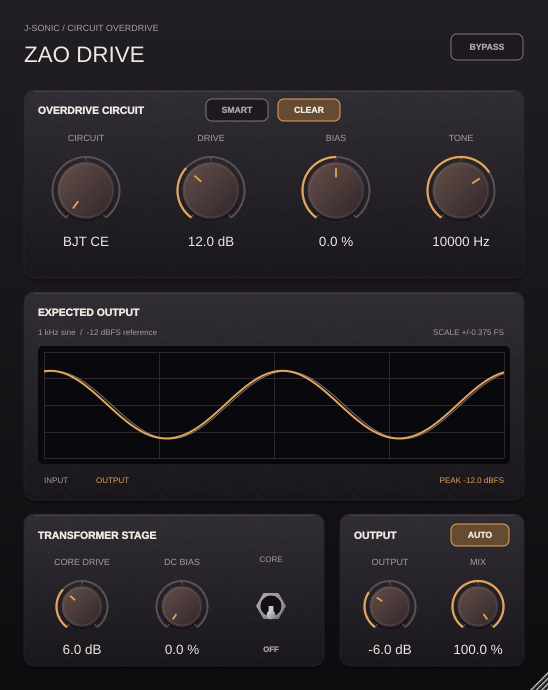
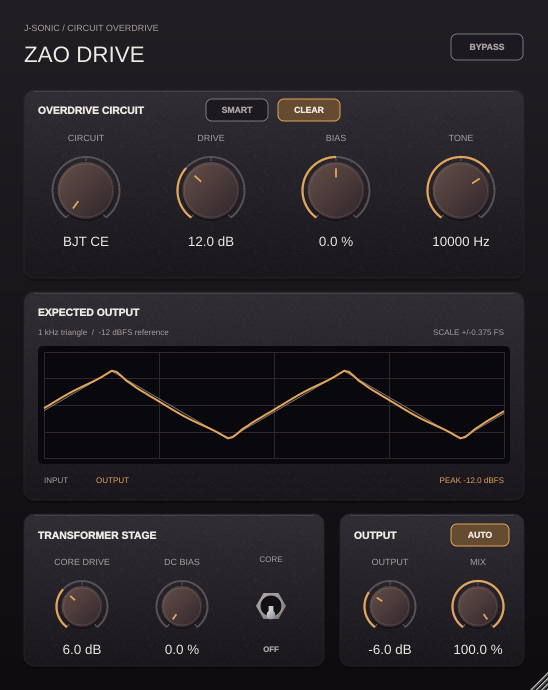
Use triangle reference for Zao Drive preview and Auto

diff --git a/projects/ZaoDrive/Tests/ProcessorTests.cpp b/projects/ZaoDrive/Tests/ProcessorTests.cpp
@@ -138,20 +138,33 @@ void optimizationTests()
         check (ready && rendered.peak > 0, "preview worker publishes the latest requested waveform");
         zao::DriveEngine reference; reference.prepare (48000, 128, false);
         juce::AudioBuffer<float> block (2, 128);
-        double error = 0;
+        // Independently construct the two straight ramps, including delayed
+        // negative indices, so a sine or misaligned dry trace cannot pass.
+        const auto triangle = [] (int sample)
+        {
+            const auto phase = (sample % 48 + 48) % 48;
+            return phase < 24 ? -.25f+phase/48.f : .75f-phase/48.f;
+        };
+        double error = 0, inputError = 0;
         for (int offset = 0; offset < 4192; offset += 128)
         {
             const auto n = std::min (128, 4192-offset);
             block.setSize (2, n, false, false, true);
             for (int i = 0; i < n; ++i)
                 for (int ch = 0; ch < 2; ++ch)
-                    block.setSample (ch, i, .25f*std::sin (static_cast<float> (2*zao::pi*(offset+i)/48.0)));
+                    block.setSample (ch, i, triangle (offset+i));
             reference.process (block, settings);
             for (int i = 0; i < n; ++i)
                 if (offset+i >= 4096)
+                {
                     error = std::max (error, std::abs (static_cast<double> (block.getSample (0, i)
                         -rendered.output[static_cast<size_t> (offset+i-4096)])));
+                    inputError = std::max (inputError, std::abs (static_cast<double> (
+                        triangle (offset+i-reference.getLatency())
+                        -rendered.input[static_cast<size_t> (offset+i-4096)])));
+                }
         }
+        check (inputError < 1e-7, "preview dry trace is a latency-aligned 1 kHz triangle at quarter-scale peak");
         check (error < 1e-6, "reused preview matches a fresh audio engine after reset and request replacement");
     }
 }
@@ -1130,7 +1143,9 @@ void editorTests (const juce::File& destination, bool tooltip, int previewMode, 
     for (int i = 0; i < 24; ++i) { juce::Thread::sleep (20); juce::Timer::callPendingTimersSynchronously(); }
     double previewPower = 0;
     for (auto value : zaoEditor->getExpectedOutput()) previewPower += static_cast<double> (value)*value;
-    check (std::abs (std::sqrt (previewPower/96)-.25/std::sqrt (2.0)) < 1e-4,
+    // Exact RMS of a sampled triangle with 24 samples per ramp, including vertices.
+    const auto triangleRms = .25*std::sqrt ((1.0+2.0/(24*24))/3.0);
+    check (std::abs (std::sqrt (previewPower/96)-triangleRms) < 1e-4,
            "Auto preview shows the level-matched steady reference without extra circuit warmup");
     set (processor, "autoCompensate", 0);
     check (! automatic->getToggleState(), "Auto button follows host automation");

diff --git a/projects/ZaoDrive/Source/PreviewRenderer.cpp b/projects/ZaoDrive/Source/PreviewRenderer.cpp
@@ -2,6 +2,16 @@
 
 namespace zao
 {
+namespace
+{
+// Two 48-sample cycles fill the preview at 48 kHz; use the same triangle
+// for the circuit input and its latency-aligned dry reference used by Auto.
+float referenceSample (int sample) noexcept
+{
+    const auto phase = (sample % 48 + 48) % 48;
+    return .25f*(1.f-std::abs (phase-24)/12.f);
+}
+}
 PreviewRenderer::PreviewRenderer (bool startImmediately) : Thread ("Zao waveform preview")
 {
     if (startImmediately) startThread (juce::Thread::Priority::low);
@@ -43,7 +53,7 @@ void PreviewRenderer::run()
     constexpr int warmup = 4096, total = warmup+96;
     std::array<float, total> source;
     for (int i = 0; i < total; ++i)
-        source[static_cast<size_t> (i)] = .25f*std::sin (static_cast<float> (2*pi*i/48.0));
+        source[static_cast<size_t> (i)] = referenceSample (i);
     juce::AudioBuffer<float> block (2, 128);
     std::array<float, 15> previousKey {};
     uint32_t previousAnalysis = 0;
@@ -101,7 +111,7 @@ void PreviewRenderer::run()
                 if (offset+i >= warmup)
                 {
                     const auto at = static_cast<size_t> (offset+i-warmup);
-                    frame.input[at] = .25f*std::sin (static_cast<float> (2*pi*(offset+i-engine.getLatency())/48.0));
+                    frame.input[at] = referenceSample (offset+i-engine.getLatency());
                     frame.output[at] = block.getSample (0, i);
                     frame.peak = std::max (frame.peak, std::abs (frame.output[at]));
                 }

diff --git a/projects/ZaoDrive/Source/PluginEditor.cpp b/projects/ZaoDrive/Source/PluginEditor.cpp
@@ -285,7 +285,7 @@ void ZaoDriveEditor::paintExpectedOutput (juce::Graphics& g)
     g.setColour (foreground); g.setFont (juce::FontOptions (12.0f).withStyle ("bold"));
     g.drawText ("EXPECTED OUTPUT", 38, 303, 240, 18, juce::Justification::centredLeft);
     g.setColour (secondary); g.setFont (juce::FontOptions (9.0f));
-    g.drawText (processor.getSettings().smart ? "1 kHz reference / Smart follows live input" : "1 kHz sine  /  -12 dBFS reference", 38, 324, 280, 16, juce::Justification::centredLeft);
+    g.drawText (processor.getSettings().smart ? "1 kHz triangle / Smart follows live input" : "1 kHz triangle  /  -12 dBFS reference", 38, 324, 280, 16, juce::Justification::centredLeft);
     const auto& preview = previewAnimation.current();
     const auto scale = preview.scale;
     g.drawText ("SCALE +/-" + juce::String (scale, 3) + " FS", 350, 324, 154, 16, juce::Justification::centredRight);

diff --git a/projects/ZaoDrive/Tests/Reports/auto-report.md b/projects/ZaoDrive/Tests/Reports/auto-report.md
@@ -4,14 +4,15 @@
 
 Auto uses a **fixed correction from the rendered preview waveform's RMS**.
 There is no live-input RMS detector, moving average, attack/release envelope or
-signal-dependent gain tracking. It matches the 1 kHz preview reference; live
+signal-dependent gain tracking. It matches the 1 kHz triangle preview reference; live
 music keeps its dynamics and receives the same fixed gain between reference
 updates. The audio path and display use one shared reference calculation.
 
 ## Calculation and signal path
 
-The worker renders the same −12 dBFS, 1 kHz reference and existing 4,096-sample
-warmup as the display. It measures the 96-sample, two-cycle input and processed
+The worker renders the same −12 dBFS, 1 kHz triangle reference and existing 4,096-sample
+warmup as the display. The triangle retains the previous ±0.25 FS peak
+and 48-sample period at 48 kHz, with two cycles in the snapshot. It measures the 96-sample, two-cycle input and processed
 output snapshot after Clear, the circuit, Tone, Mix, Output and the transformer:
 
 ```text
@@ -46,10 +47,10 @@ change that reference definition.
 
 | Circuit | Transformer | Fixed correction | Preview output/input RMS error |
 | --- | --- | ---: | ---: |
-| BJT CE | Off | +4.442 dB | -2.262e-07 dB |
-| OPAMP FB | On | +13.182 dB | +2.987e-09 dB |
-| DIODE SHUNT | Off | +15.041 dB | +2.749e-07 dB |
-| CROSSOVER | On | +12.977 dB | -5.792e-08 dB |
+| BJT CE | Off | +4.420 dB | -6.622e-09 dB |
+| OPAMP FB | On | +12.926 dB | -1.458e-07 dB |
+| DIODE SHUNT | Off | +14.741 dB | -2.894e-08 dB |
+| CROSSOVER | On | +13.137 dB | -2.190e-07 dB |
 
 Data: [auto-rms.csv](auto-rms.csv). Each measured RMS error is below 1e-5 dB.
 These measurements describe the preview-reference criterion, not a promise of

diff --git a/projects/ZaoDrive/README.md b/projects/ZaoDrive/README.md
@@ -33,7 +33,7 @@ Output sets the level entering the optional transformer.
 
 **Auto**, in the Output section, matches the RMS of the preview's input and
 processed output using a fixed correction after the transformer. It uses the
-same −12 dBFS, 1 kHz reference waveform shown in Expected Output. There is no
+same −12 dBFS, 1 kHz triangle reference waveform shown in Expected Output. There is no
 live RMS detector, averaging or automatic reaction to the music: the correction
 stays constant between reference updates, preserving the input's dynamics.
 The shared reference worker recalculates for control or Smart snapshot changes,
@@ -53,7 +53,7 @@ no latency. It defaults Off and saves CPU when Off. See [SMART.md](SMART.md)
 for the signal path and separation limits, the [measured report](Tests/Reports/smart-report.md),
 and the [Smart preview](Previews/zao-smart.png).
 
-The **Expected Output** display renders a −12 dBFS, 1 kHz reference through a
+The **Expected Output** display renders a −12 dBFS, 1 kHz triangle reference through a
 separate instance of the actual audio engine. Gray is the delayed input and amber
 is the predicted output, including Clear, Auto, Tone, Mix, Output, bypass, and transformer
 settings. It is a reference waveform, not a live oscilloscope or a prediction of

diff --git a/projects/ZaoDrive/SMART.md b/projects/ZaoDrive/SMART.md
@@ -105,7 +105,7 @@ level averaging. Changes to Smart filter snapshots update the preview reference
 and its correction on the shared reference worker.
 
 The expected-output display applies the current live filter snapshot to its
-1 kHz reference using an independent engine on the preview worker, with live
+1 kHz triangle reference using an independent engine on the preview worker, with live
 spectral analysis disabled in that reference engine. The display eases between
 rendered targets over 160 ms. It is not a live oscilloscope, and its reference
 tone does not determine the live filter targets.
